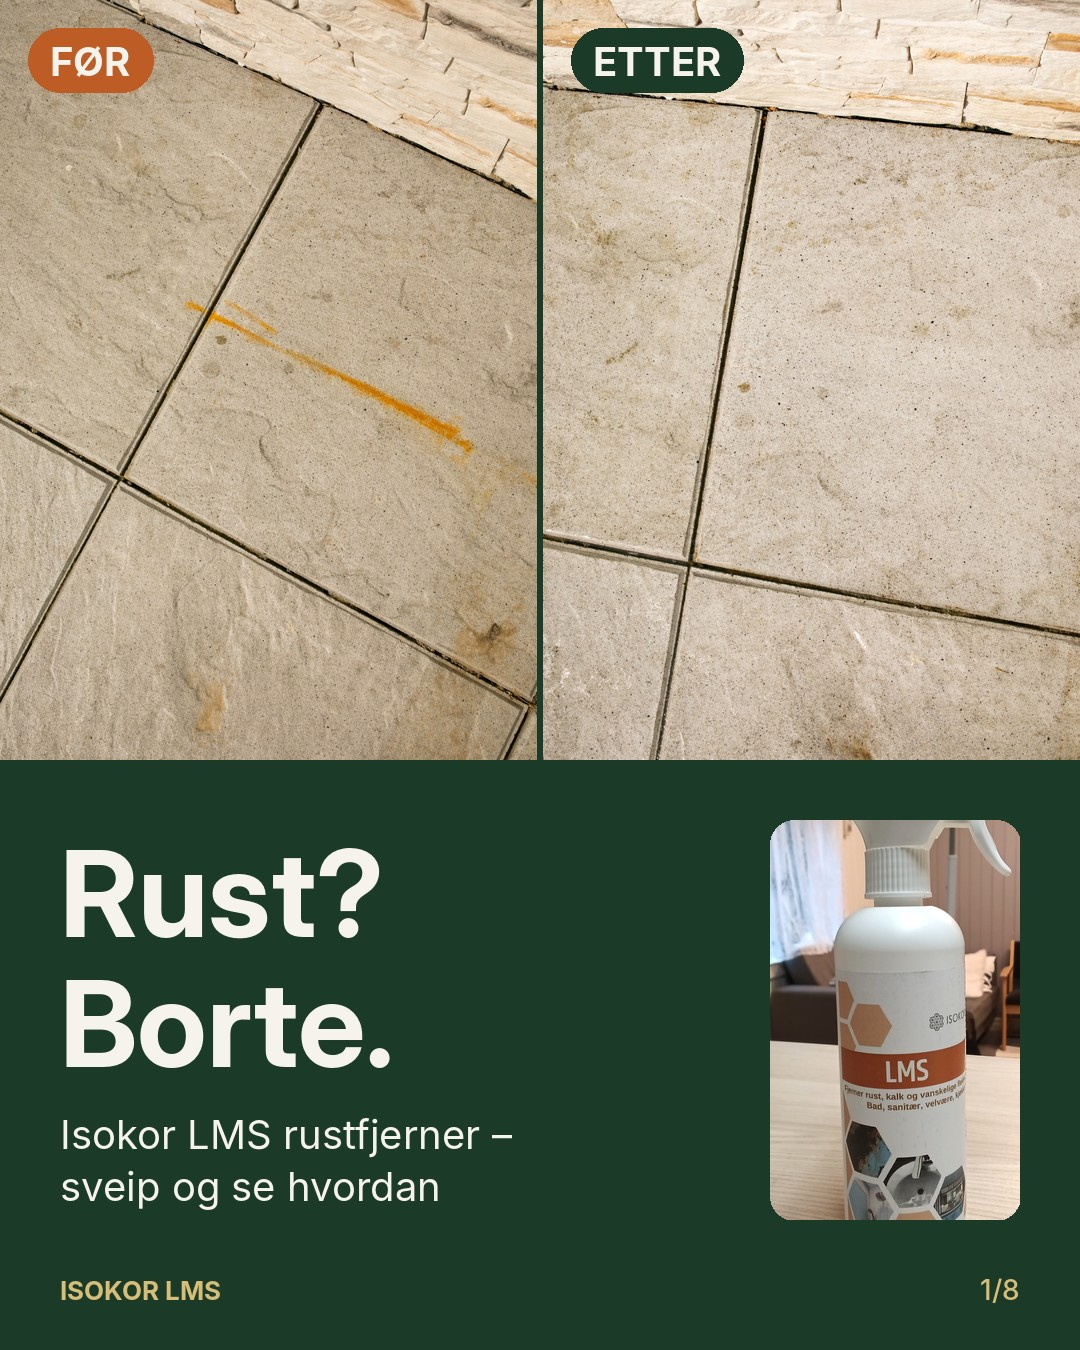
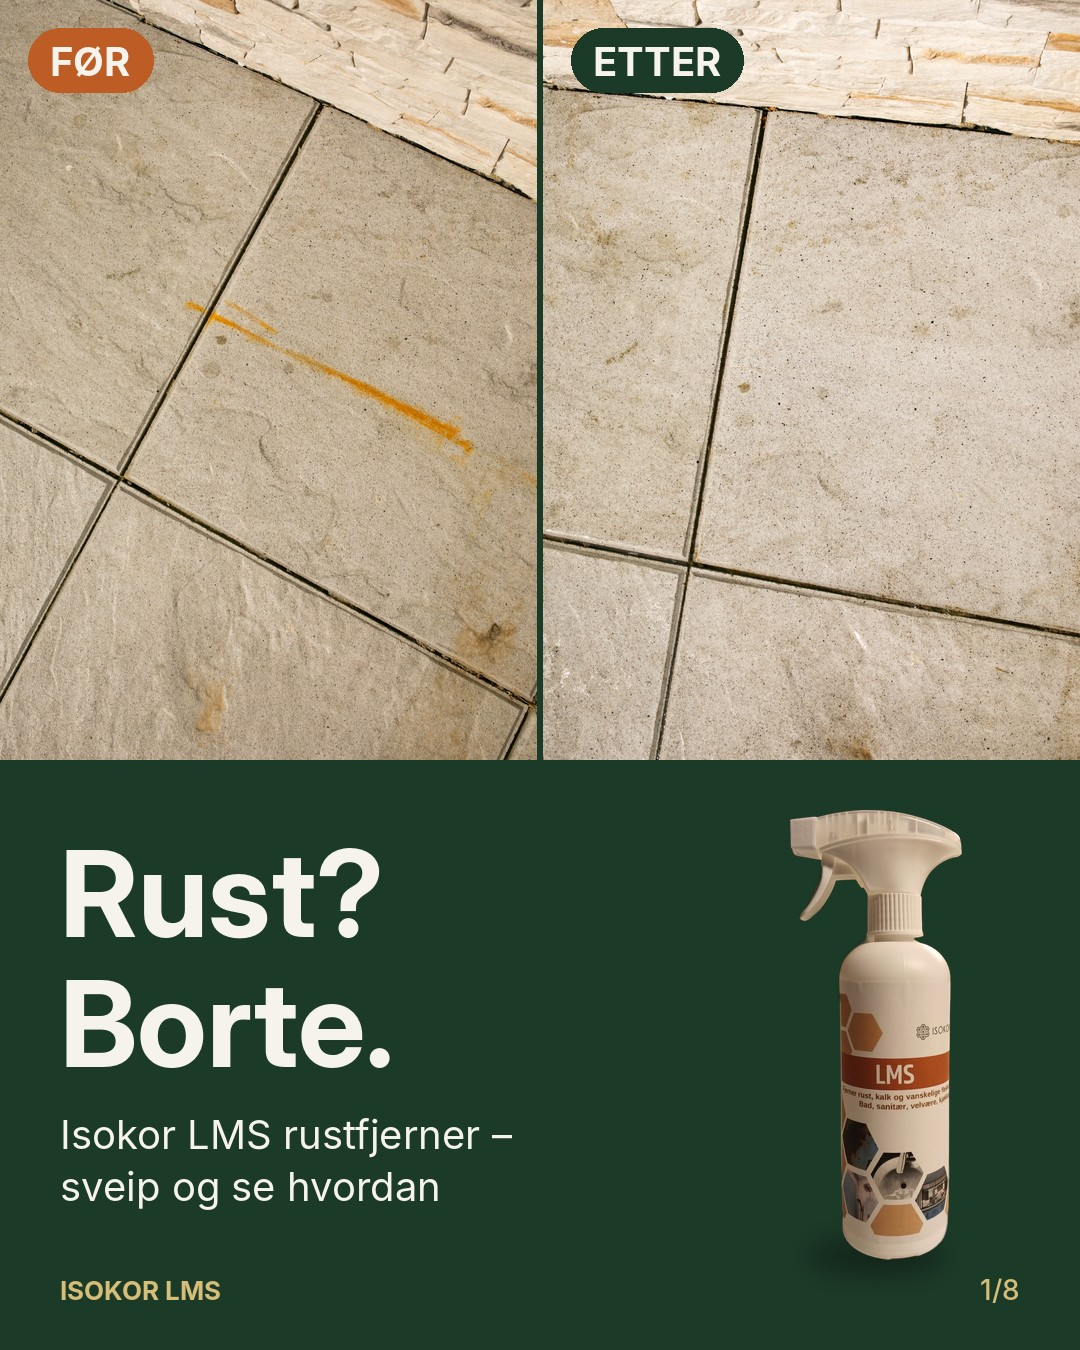
Karusel LMS: celá fľaša z novej Lukovej fotky, vystrihnutá bez pozadia
Claude-Session: https://claude.ai/code/session_01A4eGvWuM7CZ7zrwm5XumRS

Changed region(s): [[0.7028, 0.5911, 0.9472, 0.9333]]

diff --git a/02_PRACA/grafika/lms/karusel_lms.py b/02_PRACA/grafika/lms/karusel_lms.py
@@ -34,13 +34,20 @@ def label(d, x, y, text, fill, size=40):
     d.text((x + size * 0.55, y + size * 0.22), text, font=ft, fill=CREAM)
 
 
-def flasa(w, h):
-    fs = ImageOps.exif_transpose(img('lms_flasa.jpg'))
-    W0, H0 = fs.size
-    fs = fs.crop((int(W0 * 0.18), int(H0 * 0.10), int(W0 * 0.78), int(H0 * 0.97)))
-    fl = ImageEnhance.Brightness(fit(fs, w, h)).enhance(1.05)
-    mask = Image.new('L', fl.size, 0); ImageDraw.Draw(mask).rounded_rectangle((0, 0, *fl.size), radius=24, fill=255)
-    return fl, mask
+def flasa(h):
+    """Celá fľaša (Lukova fotka, pozadie odstránené rembg) — výška h, vracia RGBA."""
+    fl = Image.open(os.path.join(SRC, 'lms_flasa_vystrihnuta.png')).convert('RGBA')
+    return fl.resize((round(fl.width * h / fl.height), h), Image.LANCZOS)
+
+
+def vloz_flasu(can, x, y, h):
+    fl = flasa(h)
+    tien = Image.new('RGBA', can.size, (0, 0, 0, 0))
+    ImageDraw.Draw(tien).ellipse((x + fl.width * 0.1, y + h - 22, x + fl.width * 0.9, y + h + 14), fill=(0, 0, 0, 90))
+    from PIL import ImageFilter
+    can.paste(tien.filter(ImageFilter.GaussianBlur(12)), (0, 0), tien.filter(ImageFilter.GaussianBlur(12)))
+    can.paste(fl, (x, y), fl)
+    return fl.width
 
 
 def lines(d, x, y, rows, font, fill=CREAM, step=None):
@@ -69,7 +76,7 @@ def s1(path):  # obálka
     label(d, 28, 28, "FØR", RUST); label(d, half + 31, 28, "ETTER", GREEN)
     y = lines(d, 60, PH + 60, ["Rust?", "Borte."], f('InterDisplay-Bold.otf', 120), step=130)
     lines(d, 60, y + 30, ["Isokor LMS rustfjerner –", "sveip og se hvordan"], f('Inter-Regular.otf', 40))
-    fl, m = flasa(250, 400); can.paste(fl, (W - 310, PH + 60), m)
+    vloz_flasu(can, W - 290, PH + 50, 450)
     strana(d, 1); can.save(path, quality=90, optimize=True, progressive=True)
 
 
@@ -147,7 +154,7 @@ def s6(path):  # aj vodný kameň
                           "på badekaret, servanten og i badstua.",
                           "",
                           "Én flaske – to problemer mindre."], f('Inter-Regular.otf', 40))
-    fl, m = flasa(330, 520); can.paste(fl, ((W - 330) // 2, 730), m)
+    vloz_flasu(can, (W - flasa(540).width) // 2, 720, 540)
     strana(d, 6); can.save(path, quality=90, optimize=True, progressive=True)
 
 
@@ -167,7 +174,7 @@ def s7(path):  # služba
 
 def s8(path):  # CTA
     can = Image.new('RGB', (W, H), CREAM); d = ImageDraw.Draw(can)
-    fl, m = flasa(440, 700); can.paste(fl, ((W - 440) // 2, 90), m)
+    vloz_flasu(can, (W - flasa(740).width) // 2, 80, 740)
     d.text((W // 2, 870), "Isokor LMS rustfjerner", font=f('InterDisplay-Bold.otf', 66), fill=GREEN, anchor='mt')
     d.text((W // 2, 960), "149 kr", font=f('InterDisplay-Bold.otf', 110), fill=RUST, anchor='mt')
     t = "Kjøp på nett"; c = f('Inter-SemiBold.otf', 42); bw = d.textlength(t, font=c)

diff --git a/02_PRACA/grafika/lms/README.md b/02_PRACA/grafika/lms/README.md
@@ -3,4 +3,5 @@
 - Obrázky: `lms_wc_pred_po_*`, `lms_dlazba_pred_po_*`, `lms_dlazba_kroky_*` (1080×1350 feed, 1080×1920 Stories).
 - Videá 15 s s hudbou: `lms_video_vertikal_1080x1920.mp4`, `lms_video_16x9_1920x1080.mp4` (WC pred/po → dlažba pred / sprej / po → záver s fľašou a cenou).
 - Postup: `python3 video_lms.py vertikal|sirka <priečinok>` → hudba `python3 ../hytteservice/hudba.py hudba.wav 15` → ffmpeg (libx264 crf 22, aac 160k, -shortest, +faststart).
+- `fotky/lms_flasa_cela.jpg` (Luk 30. 10., celá fľaša) → `fotky/lms_flasa_vystrihnuta.png` (pozadie odstránené rembg isnet-general-use + len najväčší súvislý kus). `fotky/lms_flasa_hrdza_eshop.jpg` = hlavná fotka v e-shope (nápis na etikete iný než na skutočnej fľaši → pravdepodobne AI, do reklám nie).
 - **Karusel (30. 10.)** — prezentácia produktu, 8 slajdov 1080×1350: `karusel/lms_karusel_1…8.jpg` (obálka pred/po · kde všade · WC · dlažba 3 kroky · slik gjør du · aj vodný kameň · služba „Store flater? Vi tar jobben.“ · cena 149 kr). Skript `python3 karusel_lms.py fotky karusel`, text príspevku `karusel/TEXT_PRISPEVKU_NO.md`. Kov / pozinkované vozíky / profily v karuseli nie sú (karta 10.5: nezlučiteľné s kovmi) — čaká na výrobcu.
